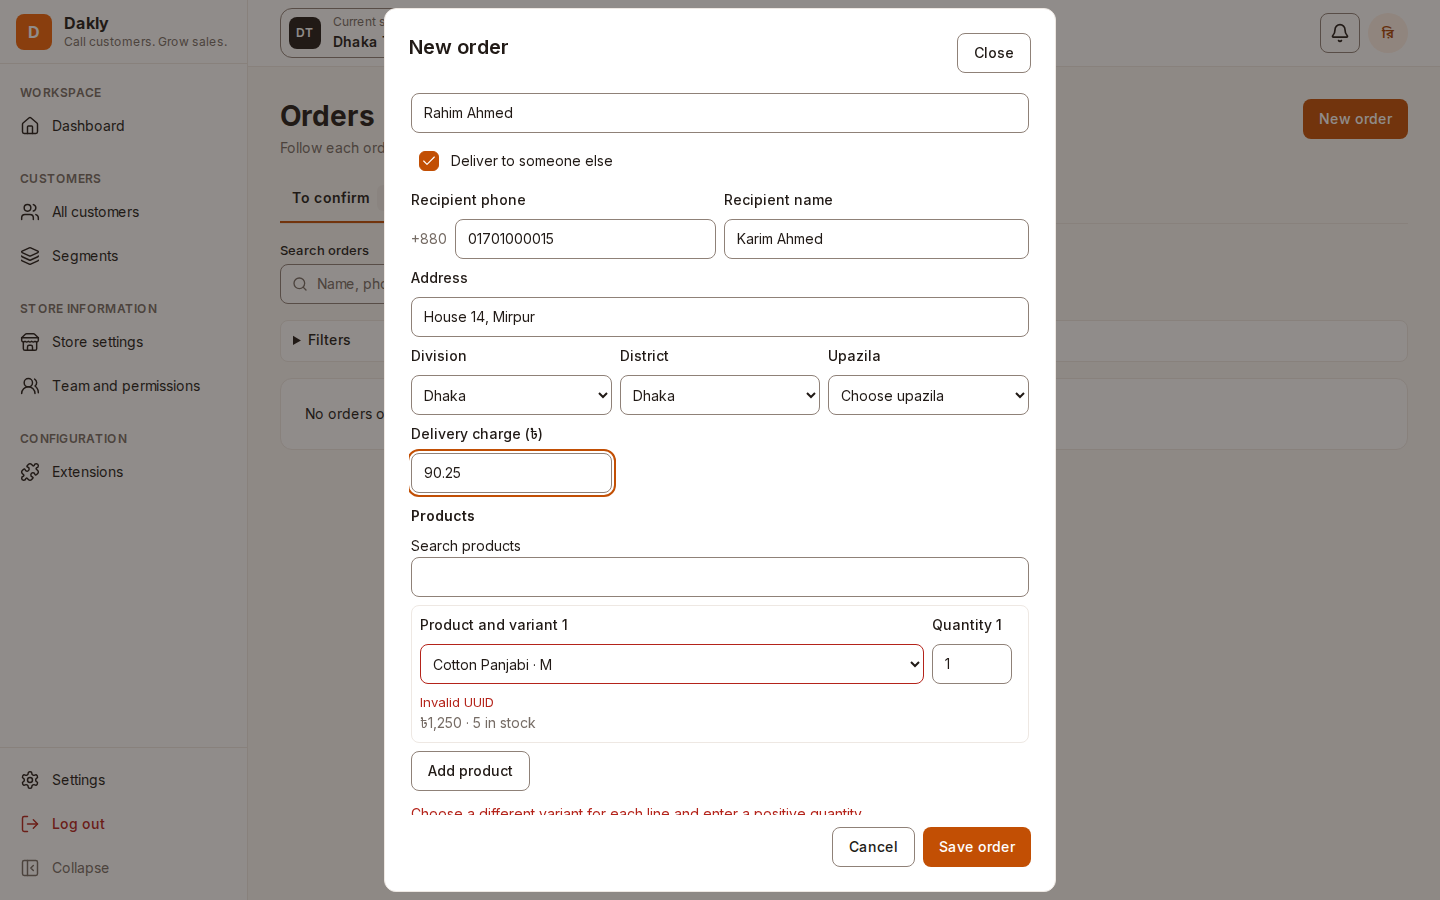
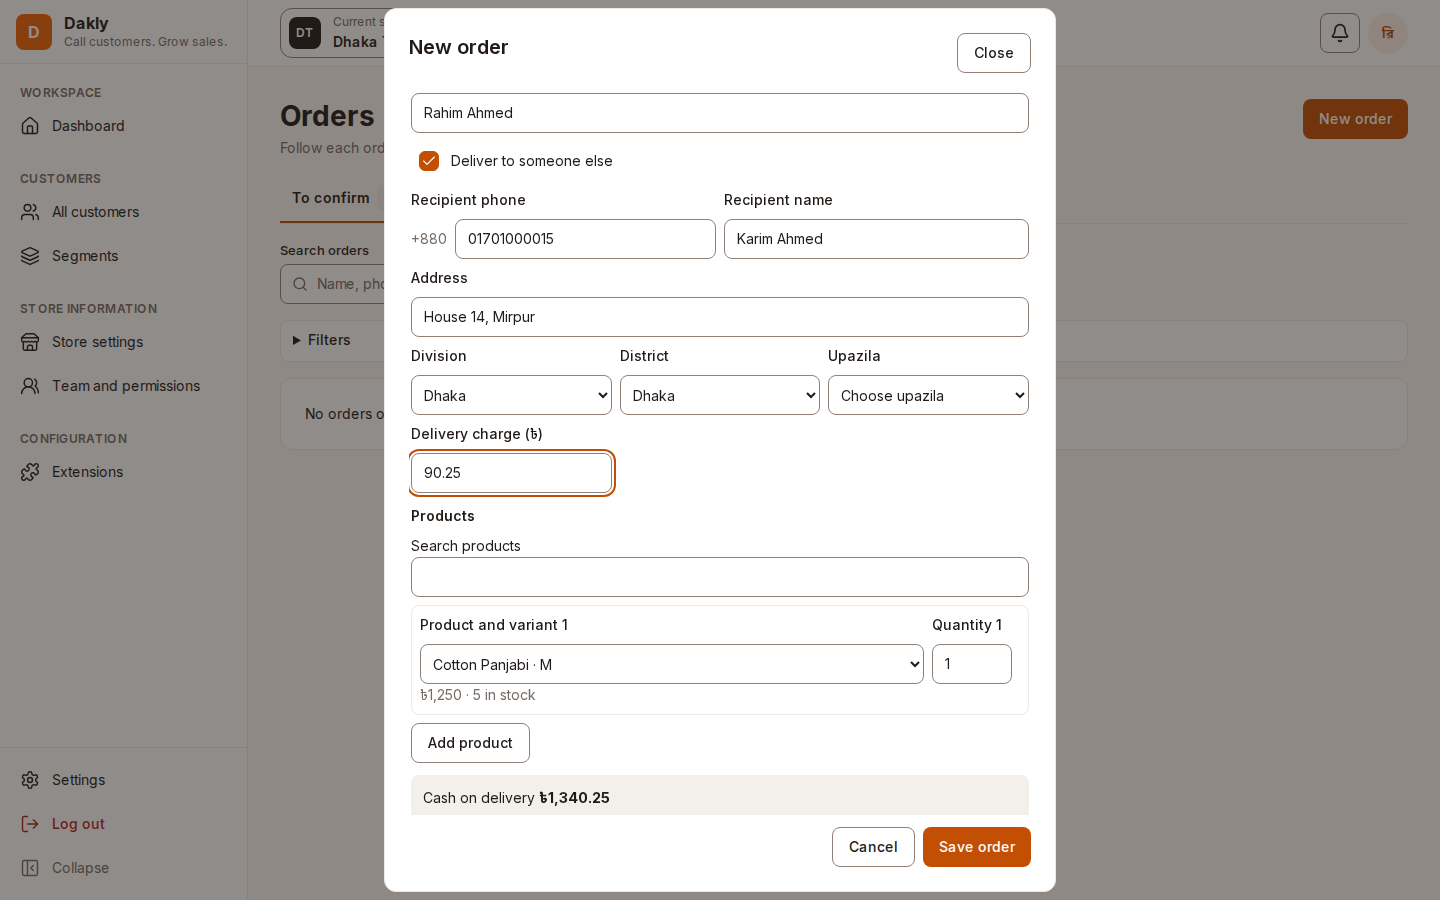
fix(ord-5): clear corrected field errors and isolate the browser fixture

Changed region(s): [[0.2812, 0.7467, 0.4375, 0.9022]]

diff --git a/apps/web/e2e/new-order.spec.ts b/apps/web/e2e/new-order.spec.ts
@@ -100,7 +100,9 @@ test('creates a staff order with the zone charge, stock and computed COD', async
     await create.getByLabel('Division').selectOption({ label: 'Dhaka' });
     await create.getByLabel('District').selectOption({ label: 'Dhaka' });
     await expect(create.getByLabel('Delivery charge (৳)')).toHaveAttribute('placeholder', '60');
-    await create.getByLabel('Product and variant 1').selectOption({ label: 'Cotton Panjabi · M' });
+    const variant = create.getByLabel('Product and variant 1');
+    await variant.selectOption({ label: 'Cotton Panjabi · M' });
+    await expect(variant).toHaveAttribute('aria-invalid', 'false');
     await expect(create.getByText('5 in stock')).toBeVisible();
     await expect(create.getByText('৳1,310')).toBeVisible();
     await create.getByLabel('Delivery charge (৳)').fill('90.25');
@@ -113,18 +115,24 @@ test('creates a staff order with the zone charge, stock and computed COD', async
     await expect(detail.getByRole('status', { name: 'Order stage' })).toHaveText('To confirm');
     await expect(detail.getByText('৳1,340.25').first()).toBeVisible();
   } finally {
-    const orders = await database.pool.query<{ id: string }>(
-      'select id from orders where store_id=$1 and delivery_zone_id=$2',
+    const orders = await database.pool.query<{ id: string; buyer_contact_id: string | null }>(
+      'select id,buyer_contact_id from orders where store_id=$1 and delivery_zone_id=$2',
       [storeId, zoneId],
     );
     const ids = orders.rows.map((order) => order.id);
+    const buyerIds = orders.rows.flatMap(({ buyer_contact_id }) => buyer_contact_id ?? []);
     await database.pool.query(
-      "delete from outbox_events where store_id=$1 and (payload->>'orderId' = any($2::text[]) or payload->>'variantId'=$3)",
-      [storeId, ids, variantId],
+      `delete from outbox_events where store_id=$1 and
+       (payload->>'orderId' = any($2::text[]) or payload->>'variantId'=$3 or payload->>'contactId' = any($4::text[]))`,
+      [storeId, ids, variantId, buyerIds],
     );
     await database.pool.query('delete from orders where store_id=$1 and id=any($2::uuid[])', [
       storeId,
       ids,
+    ]);
+    await database.pool.query('delete from contacts where store_id=$1 and id=any($2::uuid[])', [
+      storeId,
+      buyerIds,
     ]);
     await database.pool.query('delete from stock_movements where store_id=$1 and variant_id=$2', [
       storeId,

diff --git a/apps/web/src/features/orders/components/order-recipient-fields.tsx b/apps/web/src/features/orders/components/order-recipient-fields.tsx
@@ -9,9 +9,8 @@ import { useOrderDelivery } from '../api/get-delivery-charge';
 import { OrderAreaFields } from './order-area-fields';
 
 export function OrderRecipientFields() {
-  const { control, register, setValue } = useFormContext<CreateOrderValues>();
-  const { areaId, isBuyer } = useWatch({ control, name: 'recipient' });
-  const { data: charge, error } = useOrderDelivery(areaId);
+  const { control, register } = useFormContext<CreateOrderValues>();
+  const isBuyer = useWatch({ control, name: 'recipient.isBuyer' });
 
   return (
     <fieldset className="space-y-2">
@@ -44,9 +43,22 @@ export function OrderRecipientFields() {
           </FormField>
         </div>
       </div>
+      <DeliveryChargeFields />
+    </fieldset>
+  );
+}
+
+function DeliveryChargeFields() {
+  const { control, register, setValue, formState } = useFormContext<CreateOrderValues>();
+  const areaId = useWatch({ control, name: 'recipient.areaId' });
+  const { data: charge, error } = useOrderDelivery(areaId);
+  return (
+    <>
       <div className="grid gap-2 sm:grid-cols-3">
         <OrderAreaFields
-          onChange={(id) => setValue('recipient.areaId', id ?? 0, { shouldValidate: true })}
+          onChange={(id) =>
+            setValue('recipient.areaId', id ?? 0, { shouldValidate: formState.isSubmitted })
+          }
         />
         <FormField name="deliveryChargePoisha" label="Delivery charge (৳)">
           {(props) => (
@@ -66,7 +78,7 @@ export function OrderRecipientFields() {
           {error.message}
         </p>
       )}
-    </fieldset>
+    </>
   );
 }
 

diff --git a/apps/web/src/features/orders/components/order-editor-dialog.tsx b/apps/web/src/features/orders/components/order-editor-dialog.tsx
@@ -87,7 +87,7 @@ function ItemsAndAmounts() {
         onRemove={remove}
         onChoose={(index, id, variant) => {
           if (variant) setVariants((current) => ({ ...current, [id]: variant }));
-          setValue(`items.${index}.variantId`, id);
+          setValue(`items.${index}.variantId`, id, { shouldValidate: formState.isSubmitted });
         }}
       />
       {formState.errors.items && (

diff --git a/packages/contracts/src/orders.ts b/packages/contracts/src/orders.ts
@@ -265,7 +265,7 @@ const recipientSchema = z.strictObject({
 const orderLines = z
   .array(
     z.strictObject({
-      variantId: z.uuid().toLowerCase(),
+      variantId: z.uuid('Choose a product and variant').toLowerCase(),
       quantity: z.int().positive().max(2147483647),
       lineDiscountPoisha: money.default(0),
     }),
